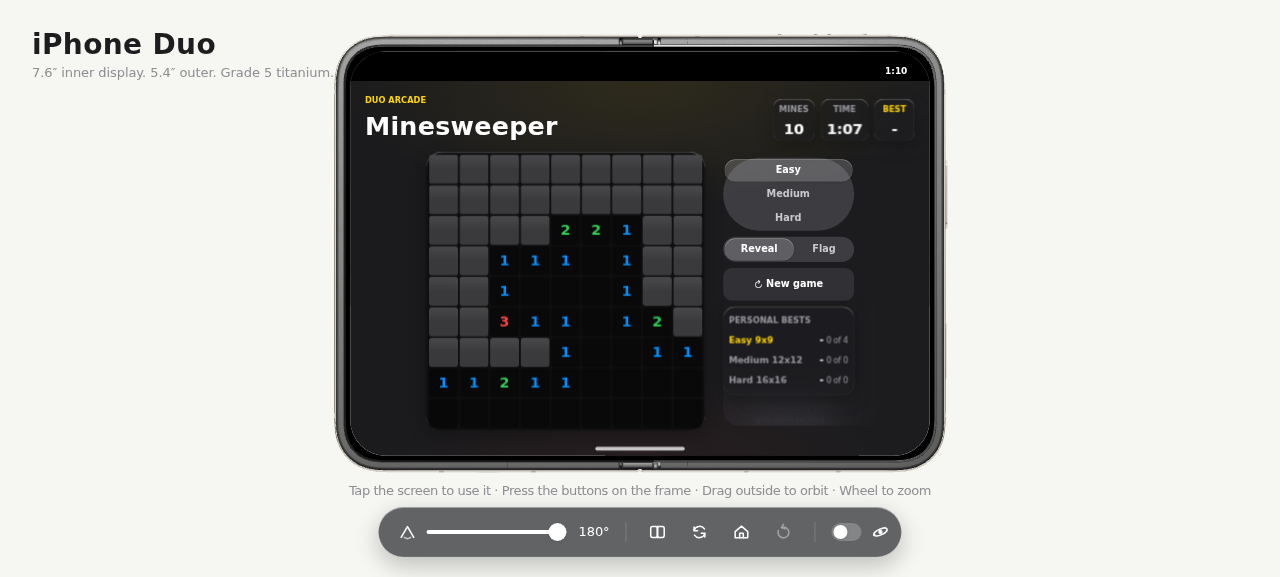
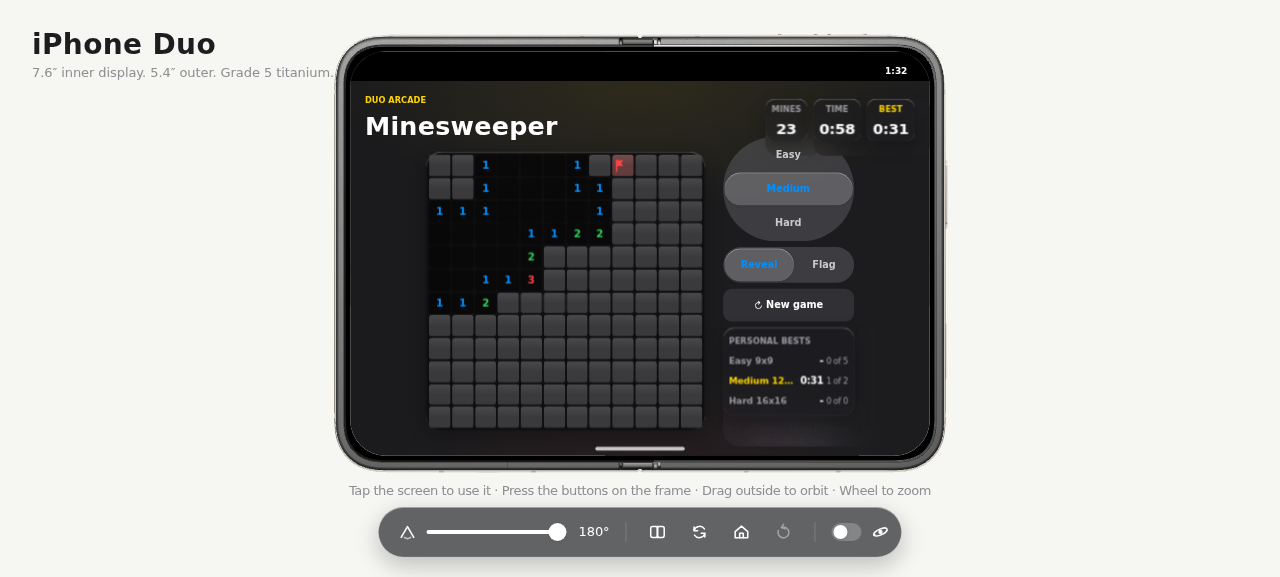
minesweeper: 44 pt controls, discard confirmation, link-color actions
- Every auxiliary control now targets the HIG 44 pt region: segmented
  options, New game and the result primary; measured on cover and wide,
  fitLayout rebalanced so boards keep readable size with zero clipping
- Selecting the running difficulty is a no-op; replacing a board with
  opened or flagged cells asks first via an explicit Cancel + labelled
  start confirmation (New game, difficulty switch, R/N; Escape cancels).
  Direct replay after win/loss stays unconditional
- Primary actions move from hard-coded yellow to app.link, with the same
  interaction colour marking the selected segment; shared.press on every
  tappable control for an immediate press state
- Recaptured cover/inner screenshots on the refined build

Changed region(s): [[0.3125, 0.156, 0.7188, 0.7487]]

diff --git a/community-apps/minesweeper/main.tsx b/community-apps/minesweeper/main.tsx
@@ -66,7 +66,7 @@ function Seg({
           role="radio"
           aria-checked={o === value}
           onClick={() => onChange(o)}
-          {...stylex.props(styles.segBtn, o === value && styles.segOn)}
+          {...stylex.props(styles.segBtn, o === value && styles.segOn, shared.press)}
         >
           <span {...stylex.props(styles.segLabel)}>{o}</span>
         </button>
@@ -87,6 +87,9 @@ function Minesweeper() {
   // The last reveal tap, for the board's staggered flood: this display's own
   // motion cue, never persisted, so the mirror copy never replays it.
   const [wave, setWave] = useState<{ index: number; stamp: number } | null>(null)
+  // A queued discard: the board in front of the player is about to be thrown
+  // away for another game, so it asks first. Null means play normally.
+  const [pending, setPending] = useState<{ preset: PresetId; label: string } | null>(null)
   const [now, setNow] = useState(() => Date.now())
   const lastSeen = useRef<string | null>(null)
   const seeded = useRef(false)
@@ -129,6 +132,9 @@ function Minesweeper() {
     const next = adoptGame(raw)
     if (!next || next.by === ME) return
     setGame(next.game)
+    // A board swapped in from the other display settles any open question
+    // about discarding the one it replaced.
+    setPending(null)
     setFocus((current) => Math.min(current, next.game.cells.length - 1))
   }, [saved.value, saved.status, saved, publish])
 
@@ -180,9 +186,33 @@ function Minesweeper() {
     (presetId: PresetId = game.preset) => {
       const next = newGame(presetById(presetId))
       setFocus(0)
+      setPending(null)
       publish(next)
     },
     [game.preset, publish]
+  )
+
+  // Any opened or flagged cell is entered progress worth a confirm; a fresh
+  // or finished board can be replaced directly.
+  const hasProgress = game.cells.some((cell) => cell.state !== 'hidden')
+  const ended = game.status === 'won' || game.status === 'lost'
+  const requestRestart = useCallback(
+    (presetId: PresetId = game.preset) => {
+      if (ended || !hasProgress) {
+        restart(presetId)
+        return
+      }
+      setPending({ preset: presetId, label: presetById(presetId).label })
+    },
+    [ended, hasProgress, game.preset, restart]
+  )
+  // Re-selecting the running preset is a no-op, never a silent board wipe.
+  const requestDifficulty = useCallback(
+    (presetId: PresetId) => {
+      if (presetId === game.preset) return
+      requestRestart(presetId)
+    },
+    [game.preset, requestRestart]
   )
 
   const toggleFlagMode = useCallback(() => flag.set(flagMode ? '0' : '1'), [flag, flagMode])
@@ -208,15 +238,18 @@ function Minesweeper() {
         }
         return
       }
+      if (event.key === 'Escape' && pending) {
+        setPending(null)
+        return
+      }
       if (event.key === 'f' || event.key === 'F') flagAt(focusRef.current)
       else if (event.key === 'g' || event.key === 'G') toggleFlagMode()
-      else if (event.key === 'r' || event.key === 'R' || event.key === 'n' || event.key === 'N') restart()
+      else if (event.key === 'r' || event.key === 'R' || event.key === 'n' || event.key === 'N') requestRestart()
     }
     window.addEventListener('keydown', onKey)
     return () => window.removeEventListener('keydown', onKey)
-  }, [game, flagAt, toggleFlagMode, restart, rootRef])
+  }, [game, flagAt, toggleFlagMode, requestRestart, pending, rootRef])
 
-  const ended = game.status === 'won' || game.status === 'lost'
   const seconds = elapsedSeconds(game, now)
   const preset = presetById(game.preset)
   const board = game.preset
@@ -251,7 +284,7 @@ function Minesweeper() {
         aria="Difficulty"
         options={PRESETS.map((p) => p.label)}
         value={preset.label}
-        onChange={(label) => restart(PRESETS.find((p) => p.label === label)!.id)}
+        onChange={(label) => requestDifficulty(PRESETS.find((p) => p.label === label)!.id)}
         stacked={wide}
       />
       <div {...stylex.props(styles.controls, wide ? styles.controlsWide : styles.controlsCover)}>
@@ -264,7 +297,7 @@ function Minesweeper() {
           }}
           fill={!wide}
         />
-        <button type="button" onClick={() => restart()} {...stylex.props(styles.action)}>
+        <button type="button" onClick={() => requestRestart()} {...stylex.props(styles.action, shared.press)}>
           <Sym name="reload" size={13} />
           New game
         </button>
@@ -332,7 +365,7 @@ function Minesweeper() {
             {preset.label} board - {formatClock(seconds)} in
           </span>
         </div>
-        <button type="button" onClick={() => restart()} {...stylex.props(styles.primary)}>
+        <button type="button" onClick={() => restart()} {...stylex.props(styles.primary, shared.press)}>
           <Sym name="reload" size={13} />
           Try again
         </button>
@@ -352,12 +385,42 @@ function Minesweeper() {
             {newBest ? '' : best === null ? '' : ` - best ${formatClock(best)}`}
           </span>
         </div>
-        <button type="button" onClick={() => restart()} {...stylex.props(styles.primary)}>
+        <button type="button" onClick={() => restart()} {...stylex.props(styles.primary, shared.press)}>
           <Sym name="reload" size={13} />
           New game
         </button>
       </div>
     ) : null
+
+  // Discard a board with entered progress only through an explicit answer.
+  // Cancelling leaves the board, flags and running timer exactly as they are.
+  const confirm = pending ? (
+    <div
+      role="alertdialog"
+      aria-label="Discard this game?"
+      {...stylex.props(styles.result, !wide && styles.resultCover)}
+    >
+      <div {...stylex.props(styles.resultCopy)}>
+        <span {...stylex.props(styles.resultKicker, styles.resultKickerConfirm, styles.resultLine)}>New game</span>
+        <strong {...stylex.props(styles.resultTitle, styles.resultLine, styles.resultDelay(60))}>
+          Discard this board?
+        </strong>
+        <span {...stylex.props(styles.resultSub, styles.resultLine, styles.resultDelay(120))}>
+          {pending.preset === game.preset
+            ? 'Your progress and flags will be lost.'
+            : `Switch to ${pending.label}? Your progress and flags will be lost.`}
+        </span>
+      </div>
+      <div {...stylex.props(styles.confirmActions)}>
+        <button type="button" onClick={() => setPending(null)} {...stylex.props(styles.action, shared.press)}>
+          Cancel
+        </button>
+        <button type="button" onClick={() => restart(pending.preset)} {...stylex.props(styles.primary, shared.press)}>
+          {pending.preset === game.preset ? 'New game' : `Start ${pending.label}`}
+        </button>
+      </div>
+    </div>
+  ) : null
 
   return (
     <main ref={rootRef} {...stylex.props(dark, styles.root, !wide && styles.rootCover)}>
@@ -384,7 +447,7 @@ function Minesweeper() {
           <p {...stylex.props(styles.hint, styles.hintCover, flagMode && styles.hintOn)}>{hintText}</p>
         </section>
       )}
-      {result}
+      {result ?? confirm}
     </main>
   )
 }

diff --git a/community-apps/minesweeper/styles.ts b/community-apps/minesweeper/styles.ts
@@ -182,8 +182,8 @@ export const styles = stylex.create({
   segBtn: {
     flexGrow: 1,
     minWidth: 0,
-    // Fills its track: inside the 44 pt controls row the segments grow with it.
-    minHeight: 30,
+    // The HIG's finger target applies to segments too: every option is 44 pt.
+    minHeight: 44,
     height: '100%',
     paddingInline: space.sm,
     borderWidth: 0,
@@ -203,7 +203,8 @@ export const styles = stylex.create({
   },
   segOn: {
     backgroundColor: glass.tint,
-    color: colors.white,
+    // Selected reads as the interaction colour on the raised light pill.
+    color: app.link,
     boxShadow: `${shadow.rim},${shadow.card}`
   },
   segFill: { flexGrow: 1 },
@@ -416,6 +417,7 @@ export const styles = stylex.create({
     textTransform: 'uppercase'
   },
   resultKickerWin: { color: colors.greenDark },
+  resultKickerConfirm: { color: colors.orangeDark },
   // The card's lines land one after another so the verdict reads in order.
   resultLine: {
     animationName: { default: lineIn, [reduce]: 'none' },
@@ -451,20 +453,23 @@ export const styles = stylex.create({
     lineHeight: leading.caption1,
     letterSpacing: tracking.caption1
   },
+  // The one filled action per surface carries app.link, the interaction
+  // colour; the warm yellow stays with brand and stats content.
   primary: {
     display: 'flex',
     alignItems: 'center',
     justifyContent: 'center',
     gap: space.xs,
+    minHeight: 44,
     borderWidth: 0,
     borderRadius: radius.lg,
     paddingBlock: space.sm,
     paddingInline: space.md,
     backgroundColor: {
-      default: colors.yellowDark,
-      ':hover': `color-mix(in srgb, ${colors.yellowDark} 86%, ${colors.white})`
+      default: app.link,
+      ':hover': `color-mix(in srgb, ${app.link} 86%, ${colors.white})`
     },
-    color: colors.black,
+    color: colors.white,
     fontFamily: fonts.system,
     fontSize: typeScale.footnote,
     fontWeight: weight.bold,
@@ -476,5 +481,8 @@ export const styles = stylex.create({
     transitionTimingFunction: easing.pop,
     transform: { default: 'scale(1)', ':active': motion.press },
     ':focus-visible': { outline: `2px solid ${colors.white}`, outlineOffset: 2 }
-  }
+  },
+  // The discard confirmation sits where the result card lands: a bottom
+  // action card with explicit Cancel and a labelled primary, iOS-style.
+  confirmActions: { display: 'flex', gap: space.sm, flexShrink: 0, flexWrap: 'wrap' }
 })

diff --git a/community-apps/minesweeper/board.tsx b/community-apps/minesweeper/board.tsx
@@ -17,8 +17,12 @@ export function fitLayout(view: ViewDimensions, wide: boolean) {
   // Cover header wraps the score chips onto a second line; rail stacks the
   // segments over the buttons, and the hint row sits under it.
   const header = wide ? 56 : 112
-  const gaps = wide ? 24 : 48
+  // Cover stage gaps measured ~24 between header, board, rail and hint; the
+  // extra is dead space the centred stage would only split around the board.
+  const gaps = wide ? 24 : 28
   const railWide = 200
+  // 44 pt segments, the 44 pt action row and the hint under the rail -
+  // measured together at 117, rounded up with margin.
   const railCover = 124
   const width = view.width || 790
   const height = view.height || 555

diff --git a/community-apps/minesweeper/README.md b/community-apps/minesweeper/README.md
@@ -19,7 +19,11 @@ claims: later guesses are part of the game.
   hidden toggle. On a mouse, right-click flags directly; on touch, a 400 ms
   long-press flags too.
 - Keyboard: arrows move the focus, Enter/Space opens, F flags the focused
-  cell, G toggles flag mode, R/N starts a new game.
+  cell, G toggles flag mode, R/N asks for a new game.
+- A board with opened or flagged cells is never silently discarded: New game,
+  a different difficulty or R/N first asks "Discard this board?" with explicit
+  Cancel and labelled start actions; Escape also cancels. Re-picking the
+  current difficulty is a no-op, and after a win or loss replay is direct.
 - The counter shows mines minus flags and the clock starts on the first
   reveal. Winning auto-flags every remaining mine; losing reveals the field
   and slashes the flags that were wrong.
